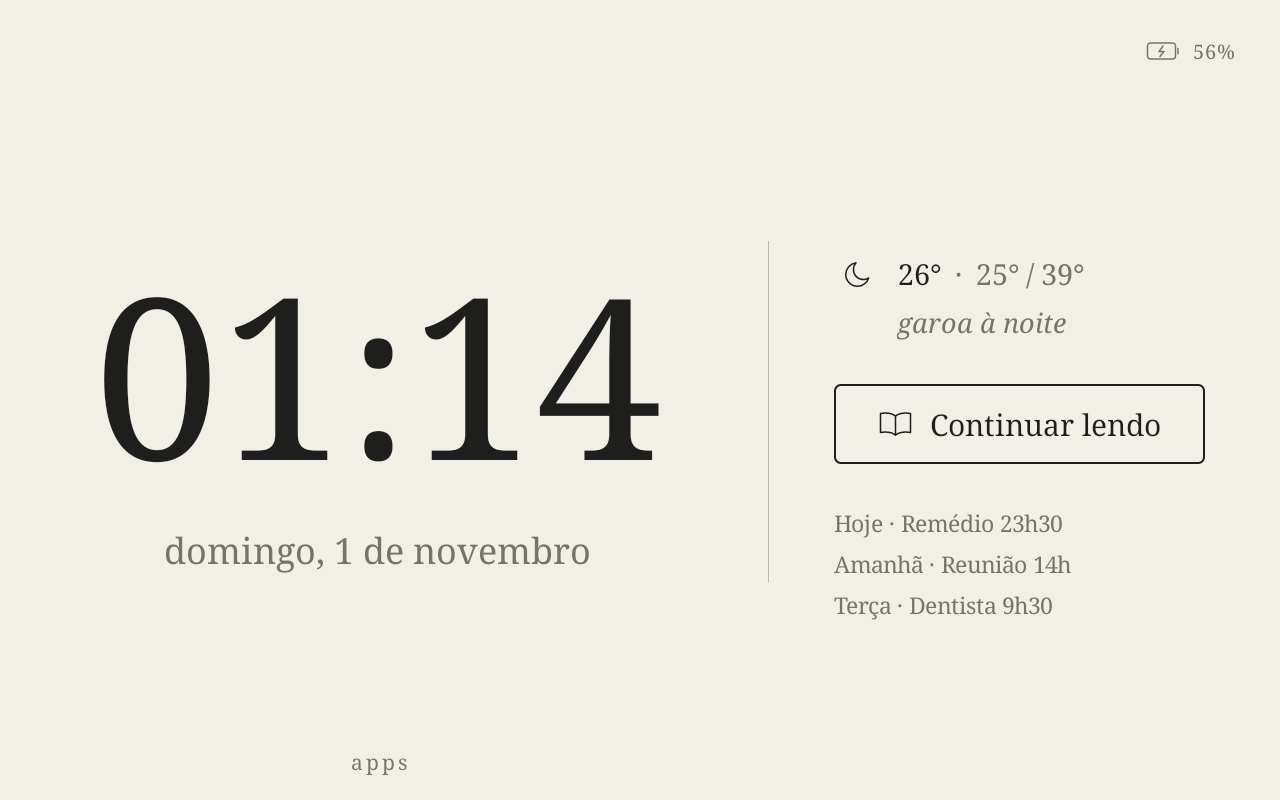
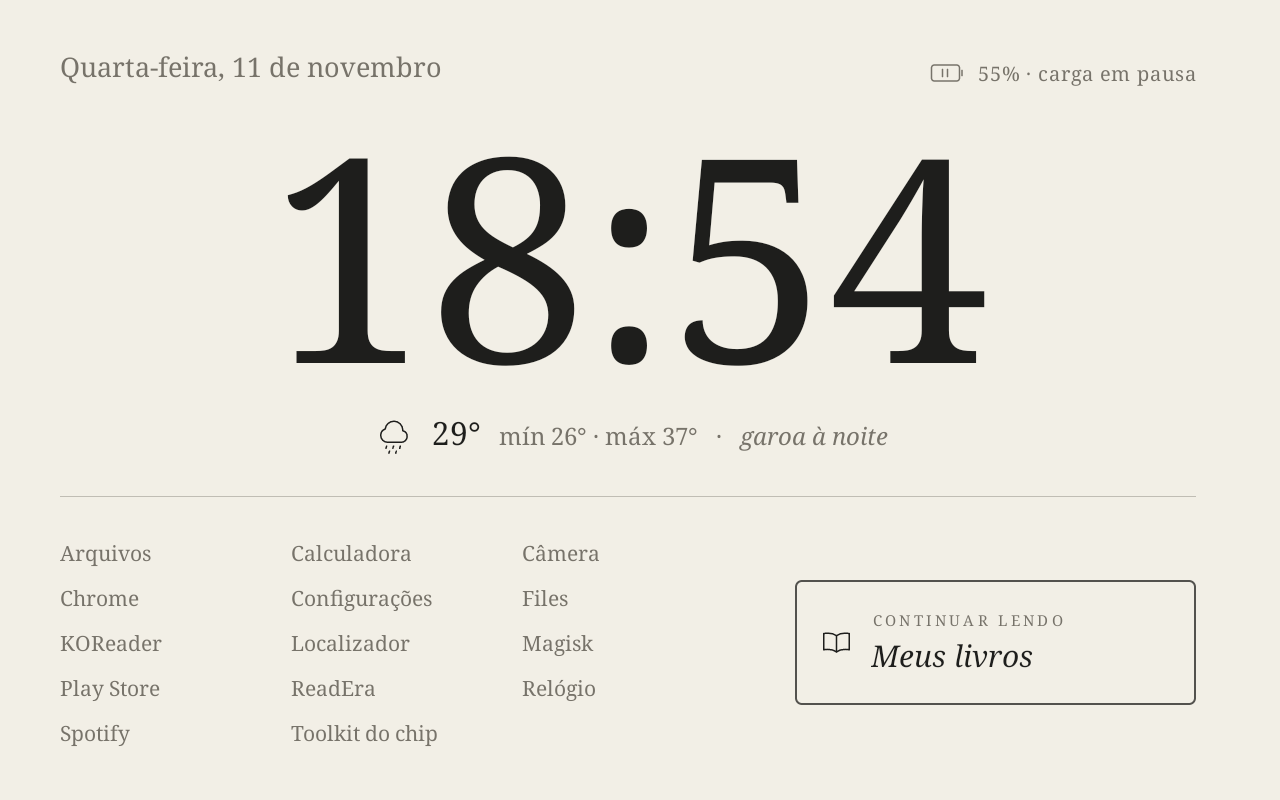
Versão 0.4
- README e capturas de tela com a nova tela papel e a previsão ao acordar
- Configuração padrão sem agenda/lembretes, com a chave `livro`

diff --git a/app-relogio/app/src/main/java/br/tabletink/cabeceira/Config.java b/app-relogio/app/src/main/java/br/tabletink/cabeceira/Config.java
@@ -37,11 +37,6 @@ final class Config {
             + "latitude = -15.7939\n"
             + "longitude = -47.8828\n"
             + "\n"
-            + "# Endereço secreto no formato iCal do Google Agenda\n"
-            + "# (Agenda > Configurações > sua agenda > Endereço secreto no formato iCal).\n"
-            + "# Vazio = usa o arquivo lembretes.txt desta mesma pasta.\n"
-            + "ical =\n"
-            + "\n"
             + "# Modo noite (só a hora e a data, em âmbar) e a transição suave, em minutos\n"
             + "noite_inicio = 21:00\n"
             + "noite_fim = 06:00\n"
@@ -50,13 +45,10 @@ final class Config {
             + "# Depois do fim da noite, quanto tempo a previsão do dia fica em destaque\n"
             + "acordar_minutos = 60\n"
             + "\n"
-            + "# De quanto em quanto tempo atualizar o tempo e a agenda\n"
+            + "# De quanto em quanto tempo atualizar o tempo\n"
             + "atualizar_minutos = 30\n"
             + "\n"
-            + "# Quantos lembretes mostrar no rodapé (2 ou 3)\n"
-            + "lembretes = 3\n"
-            + "\n"
-            + "# Livro que você está lendo, no cartão \"Continuar lendo\" (tela deitada).\n"
+            + "# Livro que você está lendo, no cartão \"Continuar lendo\".\n"
             + "# Vazio = \"Meus livros\". O ReadEra não informa o livro aberto a outros apps.\n"
             + "livro =\n";
 

diff --git a/README.md b/README.md
@@ -13,14 +13,17 @@ PC, via adb, **sem root**.
 
 ![Modo dia na horizontal](docs/img/dia-horizontal.png)
 
-> Capturas de tela feitas no aparelho. Os lembretes são de exemplo. No tablet de teste as cores
+![Ao acordar na horizontal](docs/img/acordar-horizontal.png)
+
+> Capturas de tela feitas no aparelho. No tablet de teste as cores
 > aparecem mais suaves por causa do filtro de saturação opcional (ver [Root opcional](#root-opcional)).
 
 ## O que faz
-- **Dia:** hora, data por extenso (“domingo, 1 de novembro”), tempo numa linha (ícone em traço fino,
-  temperatura atual, mín/máx e um resumo como “chuva à tarde”), botão “Meus livros” que abre o
-  leitor, e os próximos 2–3 lembretes no rodapé.
-- **Ao acordar:** na primeira hora depois da noite, a previsão do dia aparece em destaque.
+- **Dia:** data por extenso no canto, hora grande, tempo numa linha (ícone em traço fino,
+  temperatura atual, mín/máx e um resumo como “chuva à tarde”) e, no rodapé, a lista dos apps
+  instalados (um toque abre) e o cartão “Continuar lendo”, que abre o leitor.
+- **Ao acordar:** na primeira hora depois da noite, a previsão do dia em destaque: resumo, um conselho
+  (“Leve o guarda-chuva.”), mín/máx, umidade e uma faixa das 9h às 21h com a chance de chuva.
 - **Noite:** só a hora e a data, em âmbar e com brilho mínimo. Um toque mostra o botão do livro por 10 s.
 - Transição suave entre dia e noite; layout vertical e horizontal; protetor de tela no carregador;
   indicador discreto de bateria; deslocamento periódico do conteúdo para proteger a tela.
@@ -63,8 +66,8 @@ apps removidos pelo `etapa2-debloat.ps1` foi feita para o M8; em outro aparelho,
 4. **Instalar tudo** (baixe este repositório como ZIP ou com `git clone` e abra o PowerShell na pasta):
    ```powershell
    Set-ExecutionPolicy -Scope Process Bypass
-   .\scripts\instalar-tudo.ps1 -Apk C:\Downloads\cabeceira-v0.3.0.apk              # Multilaser M8
-   .\scripts\instalar-tudo.ps1 -Apk C:\Downloads\cabeceira-v0.3.0.apk -SemDebloat  # outros aparelhos
+   .\scripts\instalar-tudo.ps1 -Apk C:\Downloads\cabeceira-v0.4.0.apk              # Multilaser M8
+   .\scripts\instalar-tudo.ps1 -Apk C:\Downloads\cabeceira-v0.4.0.apk -SemDebloat  # outros aparelhos
    ```
    (Sem `-Apk`, usa o APK que você compilou.)
    O script aplica os ajustes de sistema, remove apps desnecessários, baixa e instala o KOReader
@@ -83,7 +86,7 @@ Cada etapa também pode ser rodada sozinha e desfeita com `-Desfazer`:
 | `scripts\etapa2-config.ps1` | desliga animações; tela ligada no carregador; modo monocromático |
 | `scripts\etapa2-debloat.ps1` | remove apps para o usuário 0 (`pm uninstall --user 0`) |
 | `scripts\etapa3-ativar.ps1` | instala o relógio; tela inicial; protetor de tela; sem tela de bloqueio de deslizar |
-| `scripts\config-relogio.ps1` | baixa/envia a configuração e os lembretes |
+| `scripts\config-relogio.ps1` | baixa/envia a configuração |
 
 ## Configuração
 Tudo fica num arquivo, `cabeceira.conf`, na pasta do app no tablet
@@ -91,34 +94,23 @@ Tudo fica num arquivo, `cabeceira.conf`, na pasta do app no tablet
 
 ```powershell
 .\scripts\config-relogio.ps1 -Baixar   # copia para a pasta config\ do projeto (fora do git)
-# edite config\cabeceira.conf e config\lembretes.txt
+# edite config\cabeceira.conf
 .\scripts\config-relogio.ps1 -Enviar
 ```
 Modelo comentado: [config.example](config.example).
 
 - **Cidade:** troque `latitude` e `longitude`. Para achar as da sua cidade, abra
   `https://geocoding-api.open-meteo.com/v1/search?name=SUA_CIDADE&language=pt&countryCode=BR`.
-- **Google Agenda:** no navegador, Google Agenda → Configurações → sua agenda →
-  **Endereço secreto no formato iCal** → cole em `ical = ...`. O tablet não precisa de conta Google.
-  Esse link dá acesso de leitura à sua agenda: **não o compartilhe nem o publique**.
-- **Sem Google Agenda:** deixe `ical =` vazio e escreva os lembretes em `lembretes.txt`, um por linha
-  (modelo: [lembretes.example.txt](lembretes.example.txt)):
-  ```
-  2026-11-03 14:00 Reunião
-  2026-11-05 Aniversário da Ana
-  ter 9h30 Dentista
-  todo-dia 22:00 Remédio
-  25/12 Natal
-  ```
+- **Livro:** `livro = Título do livro` mostra o título no cartão “Continuar lendo” (vazio = “Meus livros”).
 - **Horários:** `noite_inicio` / `noite_fim` (padrão 21:00–06:00), `transicao_minutos`, `acordar_minutos`.
 
 ## Uso
-- **Ler:** toque em “Meus livros”. Se o ReadEra ainda estiver aberto, ele volta ao livro; se tiver
+- **Ler:** toque no cartão “Continuar lendo” (à noite, toque na tela e depois em “Meus livros”). Se o ReadEra ainda estiver aberto, ele volta ao livro; se tiver
   sido fechado, abre a tela inicial dele, com o livro atual em “Lendo agora”. Copie livros
   (EPUB, PDF, MOBI, AZW3, FB2, CBZ…) pelo cabo USB (modo Transferência de arquivos) para a pasta
   `Download`. Livros com DRM (ex.: comprados na Amazon) não abrem.
 - **Trocar o modo à mão:** segure o dedo sobre a hora — alterna automático → dia → noite → automático.
-- **apps:** lista simples dos outros apps instalados.
+- **Apps:** de dia, a lista fica no rodapé; ao acordar, toque em “apps” para abrir a lista completa.
 
 ### Sugestão: ler acompanhando o audiolivro (Spotify)
 Instale o Spotify no tablet e toque o audiolivro enquanto lê o mesmo livro no leitor. O áudio

diff --git a/docs/03-relogio-v2.md b/docs/03-relogio-v2.md
@@ -1,4 +1,4 @@
-# Relógio de cabeceira v0.3 — detalhes
+# Relógio de cabeceira v0.4 — detalhes
 
 ## O que mostra
 | Modo | Quando (padrão) | Conteúdo |
@@ -22,31 +22,19 @@ Pelo PC: `scripts\config-relogio.ps1 -Baixar`, editar em `config\` (pasta do pro
 | Chave | Padrão |
 |---|---|
 | `latitude` / `longitude` | Brasília (DF): -15.7939 / -47.8828 — troque pela sua cidade |
-| `ical` | vazio → usa `lembretes.txt` |
 | `noite_inicio` / `noite_fim` | 21:00 / 06:00 |
 | `transicao_minutos` | 15 |
 | `acordar_minutos` | 60 |
 | `atualizar_minutos` | 30 (tempo) |
 | `livro` | vazio → "Meus livros" no cartão; escreva o título do livro atual |
 
-**Google Agenda:** Agenda no navegador → Configurações → sua agenda → *Endereço secreto no formato iCal* →
-copie para `ical = https://calendar.google.com/calendar/ical/.../basic.ics`. Não compartilhe esse link.
-
-**lembretes.txt** (quando `ical` está vazio), um por linha:
-```
-2026-11-03 14:00 Reunião
-2026-11-05 Aniversário da Ana
-ter 9h30 Dentista
-todo-dia 22:00 Remédio
-25/12 Natal
-```
-
 ## Dados e permissões
 - Tempo: Open-Meteo (sem chave); última resposta em `tempo.json` — sem internet mostra "atualizado às HH:MM".
-- Agenda: cache em `agenda.ics`. Suporta repetições (diária/semanal/mensal/anual, BYDAY, COUNT, UNTIL),
-  exceções e ocorrências remarcadas/canceladas. Lembrete repetido aparece só na próxima ocorrência.
-- Livro: "Meus livros" abre o ReadEra (`org.readera`), ou o KOReader se ele não estiver instalado.
-  O ReadEra não informa livro nem progresso a outros apps, então o botão não mostra título nem %. O
+- Agenda: desde a v0.4 o relógio não mostra compromissos nem baixa a agenda (as chaves `ical` e
+  `lembretes` são ignoradas).
+- Livro: o cartão "Continuar lendo" (e, à noite, "Meus livros") abre o ReadEra (`org.readera`), ou o KOReader se ele não estiver instalado.
+  O ReadEra não informa livro nem progresso a outros apps, então o cartão mostra o título da chave
+  `livro` (ou "Meus livros") e não mostra %. O
   relógio não precisa de acesso aos arquivos do aparelho.
 
 ## Observações dos testes
